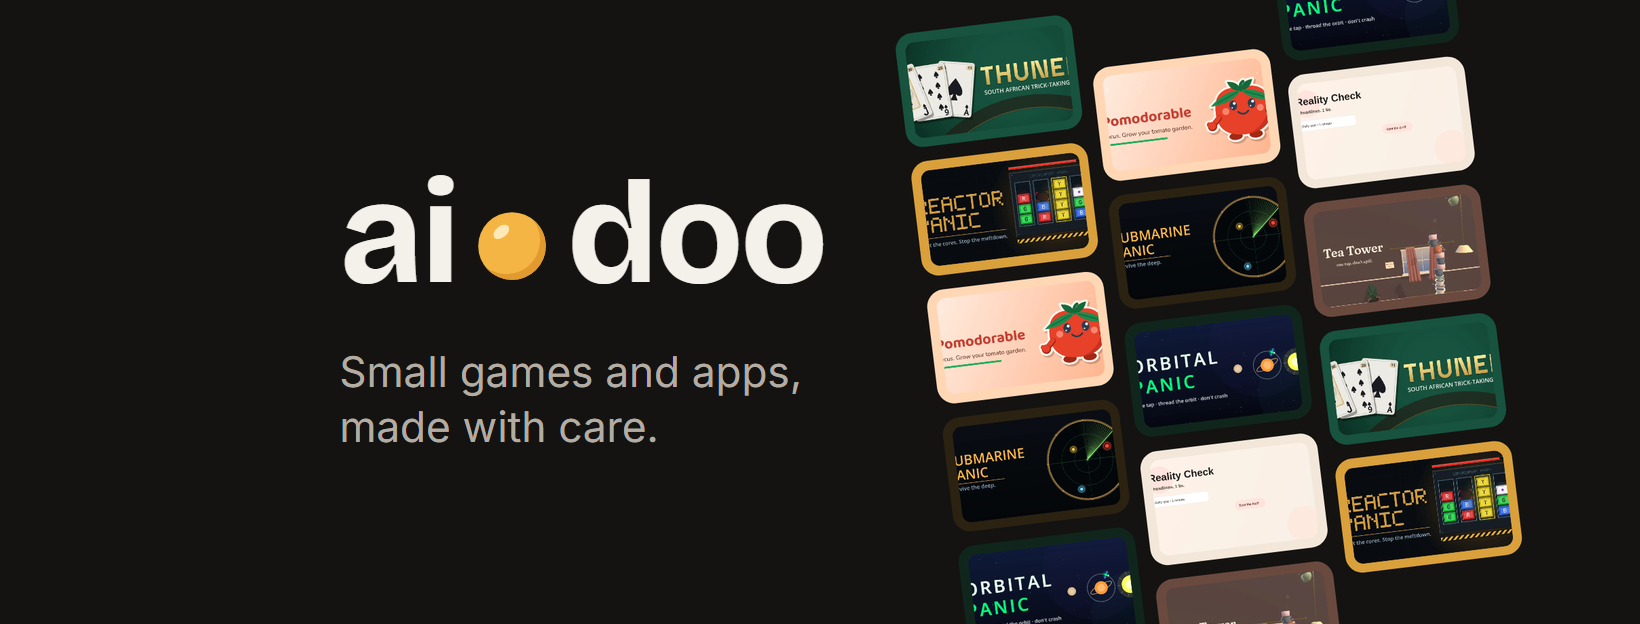
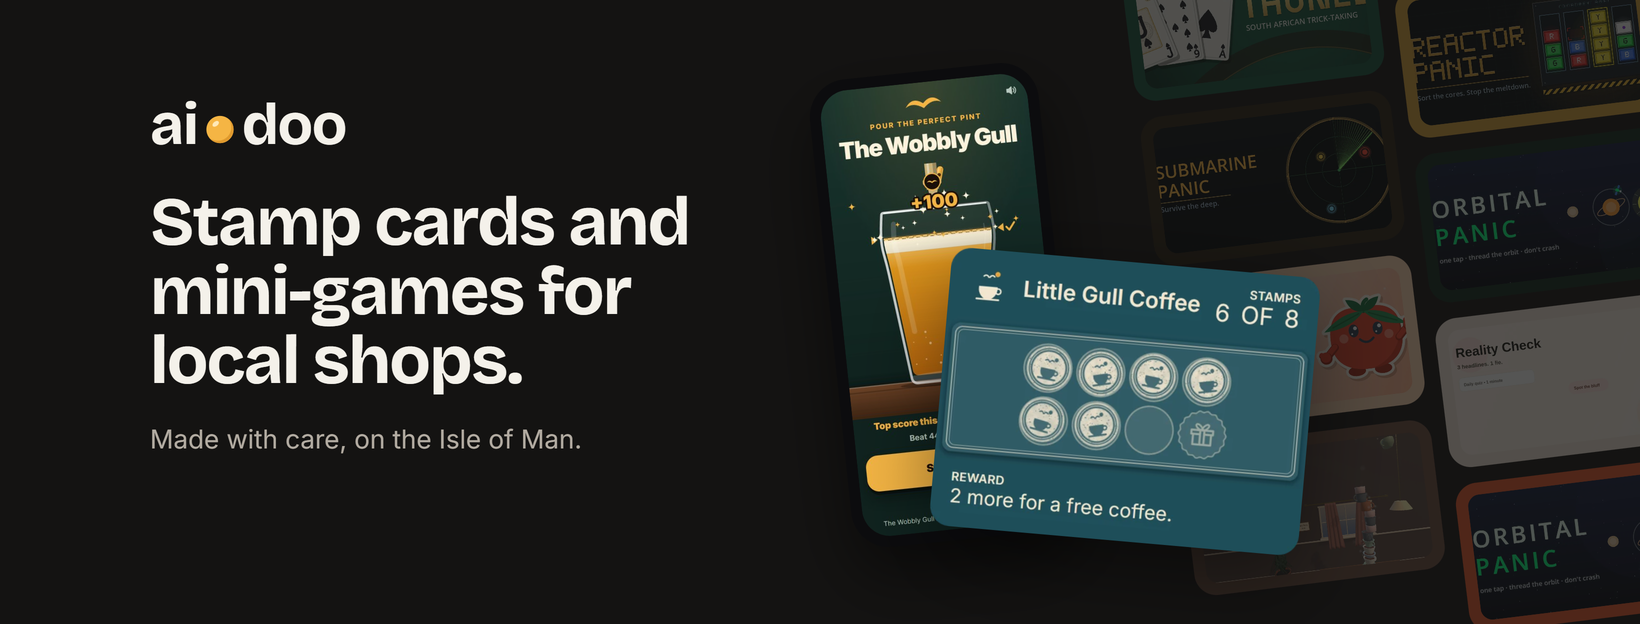
feat: share card and Facebook cover lead with the shop offers (P2.1o)
The homepage card now reads 'Stamp cards and mini-games for local shops'
beside the pour demo and the stamp pass, games faded behind (owner chose
look A). PIKA and VERA pages share a plain wordmark card, og-plain.jpg.

diff --git a/internal/og-card/index.html b/internal/og-card/index.html
@@ -1,28 +1,49 @@
 <!doctype html>
-<!-- The source of /og-image.jpg, the 1200x630 card shown when a link to the site is shared.
-     internal/ is not deployed. To redraw it: serve the repo root, then
-       msedge --headless=new --hide-scrollbars --force-device-scale-factor=2 --window-size=1200,630 \n              --screenshot=card.png http://localhost:PORT/internal/og-card/
-     and scale the 2400x1260 PNG down to a 1200x630 JPEG. Bump ?v= on every og:image so shares refetch it. --><meta charset="utf-8"><title>ai.doo share card</title>
+<!-- The source of /og-image.jpg, the 1200x630 card shown when a link to the homepage is shared, and
+     (with ?s=banner) of images/brand/ai-doo-banner-facebook.png, the 1640x624 Facebook cover (P2.1o).
+     The shop offers lead (owner chose look A, 2026-11-05): the pour demo's phone and the stamp pass,
+     with the games faded behind as the studio's proof. PIKA and VERA share plain.html instead.
+     internal/ is not deployed. To redraw: serve the repo root, then for each size
+       msedge --headless=new --hide-scrollbars --force-device-scale-factor=2 --virtual-time-budget=3000
+              --window-size=1200,630 --screenshot=card.png http://localhost:PORT/internal/og-card/
+     (1640,624 and ?s=banner for the cover), and scale the 2x PNG down to 1x: the card as a JPEG
+     (quality 88), the cover as a PNG. Bump ?v= on every og:image so shares refetch it. -->
+<meta charset="utf-8"><title>ai.doo share card</title>
 <style>
 @font-face{font-family:Bricolage;src:url(../../fonts/bricolage-grotesque-latin.woff2);font-weight:200 800}
 @font-face{font-family:Inter;src:url(../../fonts/inter-latin.woff2);font-weight:100 900}
 *{box-sizing:border-box}
-html,body{margin:0;width:1200px;height:630px;overflow:hidden;background:#141312;color:#f4f1ea;font-family:Inter,sans-serif}
-.card{position:relative;width:1200px;height:630px;padding:56px 0 0 64px}
+html,body{margin:0;overflow:hidden;background:#141312;color:#f4f1ea;font-family:Inter,sans-serif}
+body{width:1200px;height:630px}
+body.banner{width:1640px;height:624px}
+.card{position:relative;width:100%;height:100%;overflow:hidden}
 .wm{font:700 46px/1 Bricolage;letter-spacing:-.02em;display:inline-flex;align-items:baseline}
 .wm i{width:.5em;height:.5em;margin:0 .13em;background:url(../../favicon.svg) center/contain no-repeat}
-h1{margin:94px 0 0;width:560px;font:700 82px/1.0 Bricolage;letter-spacing:-.025em}
-p{margin:30px 0 0;font-size:27px;color:#b3aca2}
-.shelf{position:absolute;right:-70px;top:-40px;width:590px;display:grid;grid-template-columns:1fr 1fr;gap:18px;transform:rotate(-7deg)}
-.g{border-radius:26px;padding:14px;height:172px}
-.g img{display:block;width:100%;height:100%;object-fit:cover;border-radius:14px}
-.col{display:grid;gap:18px;align-content:start}
+.copy{position:absolute;left:64px;top:56px;width:560px}
+h1{margin:78px 0 0;font:700 68px/1.02 Bricolage;letter-spacing:-.025em}
+p{margin:26px 0 0;font-size:26px;line-height:1.35;color:#b3aca2}
+
+.shelf{position:absolute;right:-60px;top:-60px;width:560px;display:grid;grid-template-columns:1fr 1fr;gap:16px;transform:rotate(-7deg);opacity:.28}
+.col{display:grid;gap:16px;align-content:start}
 .col.b{margin-top:70px}
+.g{border-radius:22px;padding:12px;height:150px}
+.g img{display:block;width:100%;height:100%;object-fit:cover;border-radius:12px}
+
+.phone{position:absolute;left:680px;top:74px;width:230px;height:470px;padding:11px;border-radius:38px;background:#0c0c0e;box-shadow:0 30px 60px rgba(0,0,0,.45);transform:rotate(-6deg)}
+.phone div{width:208px;height:448px;border-radius:28px;overflow:hidden}
+.phone img{display:block;width:100%;height:100%;object-fit:cover;object-position:top}
+.pass{position:absolute;left:790px;top:282px;width:370px;transform:rotate(5deg);filter:drop-shadow(0 26px 40px rgba(0,0,0,.45))}
+
+/* the cover: Facebook crops its sides on phones, so the offers sit near the middle */
+.banner .copy{left:150px;top:96px;width:600px}
+.banner .wm{font-size:58px;margin-bottom:34px}
+.banner h1{margin-top:0}
+.banner .shelf{right:-40px;top:-80px;width:520px}
+.banner .phone{left:830px;top:70px}
+.banner .pass{left:940px;top:262px}
 </style>
+<body>
 <div class="card">
-  <span class="wm">ai<i></i>doo</span>
-  <h1>Small games and apps, made with care.</h1>
-  <p>A small studio on the Isle of Man.</p>
   <div class="shelf">
     <div class="col">
       <div class="g" style="background:#17533f"><img src="../../images/work/thunee.webp" alt=""></div>
@@ -34,7 +55,15 @@ p{margin:30px 0 0;font-size:27px;color:#b3aca2}
       <div class="g" style="background:#d9a03b"><img src="../../images/work/reactor-panic.webp" alt=""></div>
       <div class="g" style="background:#10261c"><img src="../../images/work/orbital-panic.webp" alt=""></div>
       <div class="g" style="background:#f3e7da"><img src="../../images/work/reality-check.webp" alt=""></div>
-      <div class="g" style="background:#e8562a"><img src="../../images/work/submarine-panic.webp" alt=""></div>
+      <div class="g" style="background:#e8562a"><img src="../../images/work/orbital-panic.webp" alt=""></div>
     </div>
   </div>
+  <div class="copy">
+    <span class="wm">ai<i></i>doo</span>
+    <h1>Stamp cards and mini-games for local shops.</h1>
+    <p>Made with care, on the Isle of Man.</p>
+  </div>
+  <div class="phone"><div><img src="pour/wobbly-gull.jpg" alt=""></div></div>
+  <img class="pass" src="../../images/stamps-pass.webp" alt="">
 </div>
+<script>if (new URLSearchParams(location.search).get('s') === 'banner') document.body.classList.add('banner');</script>

diff --git a/internal/og-card/plain.html b/internal/og-card/plain.html
@@ -1,0 +1,19 @@
+<!doctype html>
+<!-- The source of /og-plain.jpg, the 1200x630 card shown when a PIKA or VERA page is shared (P2.1o).
+     The homepage card is about shops, so the product pages take this plain one: the wordmark and
+     the studio line. Redraw it as index.html says, at 1200x630, as a JPEG (quality 88). -->
+<meta charset="utf-8"><title>ai.doo plain share card</title>
+<style>
+@font-face{font-family:Bricolage;src:url(../../fonts/bricolage-grotesque-latin.woff2);font-weight:200 800}
+@font-face{font-family:Inter;src:url(../../fonts/inter-latin.woff2);font-weight:100 900}
+*{box-sizing:border-box}
+html,body{margin:0;width:1200px;height:630px;overflow:hidden;background:#141312;color:#f4f1ea;font-family:Inter,sans-serif}
+.card{width:1200px;height:630px;display:flex;flex-direction:column;align-items:center;justify-content:center}
+.wm{font:700 150px/1 Bricolage;letter-spacing:-.02em;display:inline-flex;align-items:baseline}
+.wm i{width:.5em;height:.5em;margin:0 .13em;background:url(../../favicon.svg) center/contain no-repeat}
+p{margin:44px 0 0;font-size:30px;color:#b3aca2}
+</style>
+<div class="card">
+  <span class="wm">ai<i></i>doo</span>
+  <p>A small studio on the Isle of Man.</p>
+</div>

diff --git a/index.html b/index.html
@@ -14,13 +14,13 @@
   <meta property="og:description" content="ai.doo is a small studio on the Isle of Man. We make mobile games, useful little apps and web toys, and branded mini-games and custom apps for businesses and events.">
   <meta property="og:url" content="https://aidoo.biz/">
   <meta property="og:site_name" content="ai.doo">
-  <meta property="og:image" content="https://aidoo.biz/og-image.jpg?v=4">
+  <meta property="og:image" content="https://aidoo.biz/og-image.jpg?v=5">
 
   <!-- Twitter Card -->
   <meta name="twitter:card" content="summary_large_image">
   <meta name="twitter:title" content="ai.doo: small games and apps, made with care">
   <meta name="twitter:description" content="A small studio on the Isle of Man making games and apps.">
-  <meta name="twitter:image" content="https://aidoo.biz/og-image.jpg?v=4">
+  <meta name="twitter:image" content="https://aidoo.biz/og-image.jpg?v=5">
 
   <link rel="icon" href="favicon.svg" type="image/svg+xml" sizes="any">
   <meta name="theme-color" content="#141312">

diff --git a/vera/index.html b/vera/index.html
@@ -13,7 +13,7 @@
   <meta property="og:description" content="Self-hosted OCR validation. Upload, review, correct, and export with human-in-the-loop accuracy.">
   <meta property="og:url" content="https://aidoo.biz/vera/">
   <meta property="og:site_name" content="ai.doo">
-  <meta property="og:image" content="https://aidoo.biz/og-image.jpg?v=4">
+  <meta property="og:image" content="https://aidoo.biz/og-plain.jpg?v=1">
 
   <link rel="icon" href="../favicon.svg" type="image/svg+xml" sizes="any">
   <meta name="theme-color" content="#0b1020">

diff --git a/pika/changelog.html b/pika/changelog.html
@@ -14,7 +14,7 @@
   <meta property="og:description" content="Release notes and changelog for PIKA, the private document intelligence system.">
   <meta property="og:url" content="https://aidoo.biz/pika/changelog">
   <meta property="og:site_name" content="ai.doo">
-  <meta property="og:image" content="https://aidoo.biz/og-image.jpg?v=4">
+  <meta property="og:image" content="https://aidoo.biz/og-plain.jpg?v=1">
 
   <link rel="icon" href="../favicon.svg" type="image/svg+xml" sizes="any">
   <meta name="theme-color" content="#0b1020">

diff --git a/pika/index.html b/pika/index.html
@@ -13,7 +13,7 @@
   <meta property="og:description" content="Self-hosted document Q&A. Upload, ask, get cited answers, all on your infrastructure.">
   <meta property="og:url" content="https://aidoo.biz/pika/">
   <meta property="og:site_name" content="ai.doo">
-  <meta property="og:image" content="https://aidoo.biz/og-image.jpg?v=4">
+  <meta property="og:image" content="https://aidoo.biz/og-plain.jpg?v=1">
 
   <link rel="icon" href="../favicon.svg" type="image/svg+xml" sizes="any">
   <meta name="theme-color" content="#0b1020">

diff --git a/vera/changelog.html b/vera/changelog.html
@@ -14,7 +14,7 @@
   <meta property="og:description" content="Release notes and changelog for VERA, the OCR validation platform.">
   <meta property="og:url" content="https://aidoo.biz/vera/changelog">
   <meta property="og:site_name" content="ai.doo">
-  <meta property="og:image" content="https://aidoo.biz/og-image.jpg?v=4">
+  <meta property="og:image" content="https://aidoo.biz/og-plain.jpg?v=1">
 
   <link rel="icon" href="../favicon.svg" type="image/svg+xml" sizes="any">
   <meta name="theme-color" content="#0b1020">

diff --git a/tests/test_quiet_frame.py b/tests/test_quiet_frame.py
@@ -436,23 +436,38 @@ def _jpeg_size(rel):
 
 
 def test_the_share_card_is_the_right_size_and_every_page_asks_for_the_new_one():
-    assert _jpeg_size("og-image.jpg") == (1200, 630)
-    assert (REPO_ROOT / "og-image.jpg").stat().st_size < 300_000
-    asked = 0
+    # P2.1o: the homepage card leads with the shop offers; PIKA and VERA take the plain one
+    for card in ("og-image.jpg", "og-plain.jpg"):
+        assert _jpeg_size(card) == (1200, 630)
+        assert (REPO_ROOT / card).stat().st_size < 300_000
+    asked = {}
     for path in REPO_ROOT.rglob("*.html"):
-        if {".git", "docs", "_docs_build", "internal"} & set(
+        if {".git", ".claude", "docs", "_docs_build", "internal"} & set(
             path.relative_to(REPO_ROOT).parts
         ):
             continue
+        rel = path.relative_to(REPO_ROOT).as_posix()
         for url in re.findall(
-            r'content="(https://aidoo\.biz/og-image[^"]*)"',
+            r'content="(https://aidoo\.biz/og-(?:image|plain)[^"]*)"',
             path.read_text(encoding="utf-8"),
         ):
-            assert url == "https://aidoo.biz/og-image.jpg?v=4", path
-            asked += 1
-    assert asked == 6
-    # its source is kept, and kept off the public site
+            want = (
+                "https://aidoo.biz/og-plain.jpg?v=1"
+                if rel.startswith(("pika/", "vera/"))
+                else "https://aidoo.biz/og-image.jpg?v=5"
+            )
+            assert url == want, rel
+            asked[rel] = asked.get(rel, 0) + 1
+    assert asked == {
+        "index.html": 2,
+        "pika/index.html": 1,
+        "pika/changelog.html": 1,
+        "vera/index.html": 1,
+        "vera/changelog.html": 1,
+    }
+    # their sources are kept, and kept off the public site
     assert (REPO_ROOT / "internal" / "og-card" / "index.html").is_file()
+    assert (REPO_ROOT / "internal" / "og-card" / "plain.html").is_file()
     assert "--exclude='internal/'" in (
         REPO_ROOT / ".github" / "workflows" / "deploy.yml"
     ).read_text(encoding="utf-8")

diff --git a/docs/ROADMAP.md b/docs/ROADMAP.md
@@ -98,6 +98,7 @@ designs the rest from the result (D-008, D-010, D-011).
 | P2.1l | **A 404 that plays (owner, 2026-11-01: mock A of three).** A visitor who follows a wrong link to aidoo.biz lands on the studio frame, not a blank white page: "This page rolled away", with the wordmark's ball resting where the full stop goes. Tap it and it plays as the dot does. Four game tiles in the games' colours, a way back and an email link. noindex, out of the sitemap. | Ready For Test | owner | routine | Machine: `404.html` with absolute paths, `tests/test_not_found.py`, all gates. Owner: adds `handle_errors` to the aidoo.biz Caddy vhost (CLAUDE.md, VPS step 7), then opens aidoo.biz/nope on a phone and flicks the ball. |
 | P2.1m | **More play on the homepage (owner, 2026-11-02: D-041, an exception to the P2.1b hold).** A visitor who plays with the site finds a little more: six keep-ups end with six sparks off the paddle in the games' colours as the ball goes home (1A); the two o's of "doo" watch the ball while it's out and blink when it lands (2A, D-020's held idea); on a computer, "Play the demo" opens the pint in a sheet over the homepage, and typing "pour" opens it too (4A). The cards stay still on hover (3C). Each moves only when someone makes it move (D-019), stores nothing, and is off with reduced motion. | Complete | owner | routine | **Built 2026-11-02 on `item/P2.1m-more-play-build` (#118); played by the owner: fun, the eyes too small to read (googly eyes to be stilled before the merge).** `py -m pytest tests -q`: `424 passed`; `bash scripts/gates.sh`: `All gates passed.` (lint, format, tests, build, site, audit, docs; 2 cycles, format). Red first: 5 failed, 28 passed in `test_quiet_frame.py`. Codex round 1 (gpt-6-astra, medium): one P2, keyboard focus could leave the sheet; fixed test-first (the page behind it is `inert`). Checked in the browser pane: the sheet rises with the real game, the page stays at `/`, the game's `<base target="_top">` is in, Esc inside the game closes it, nothing left inert. Stills picked 2026-11-02 (`internal/prototypes/more-play-stills.html`); the 4A mock played by the owner on the PC ("works great"). Machine: `studio_driver.cjs` covers the sparks and the eyes; a test for the sheet (opens on the button and the word, ignores typing in the chat, closes on Esc, hides the Play button, links in the game leave the sheet); all gates. Owner: plays each on a phone and the PC. **2026-11-02, googly eyes (owner picked B):** the o fills, a dark pupil rolls 0.11em, the blink drains it; red first then `34 passed`, gates all PASS, Codex no findings. **2026-11-02, landed:** the owner played the googly eyes on a phone from the branch ("This looks amazing! Love it") and merged #118 (`1dc05b9`). |
 | P2.1n | **The footer biscuit (owner, 2026-11-04: D-043, an exception to the P2.1b hold).** A visitor to a studio page reads in the footer "No cookie banner. There are no cookies. Have a biscuit instead.", with a dotted underline and a small biscuit after it. Tap-only (owner, 2026-11-04, after playing it: nothing happens without a tap). Until the first tap only the line shows. Tap once and a mug of tea rises over the footer, moving nothing, and the biscuit goes in and starts to soak, with "Tap to pull it out." in a quiet line under it (its room is always kept, so nothing shifts). A second tap within about 2 seconds brings it out, dark at the bottom with one drip: "Perfect dunk."; with no second tap the soaked half snaps off and sinks with a ripple, the one thing that happens by itself: "Lost it. Happens to everyone." After the dunk, taps (or Enter or Space) take bites ("Go on, then."); the third leaves crumbs and "We'd remember you ate it, but that would need a cookie." No hover and no hold. Drawn as the approved stills in `internal/prototypes/biscuit-stills.html` (the ball's three flat shapes plus four docking holes; an oat-white mug). Every change animates in; nothing is stored, so a reload brings the biscuit back; reduced motion keeps the words and drops the movement. Out of scope: a cookie banner of any kind; any claim beyond "no cookies" | Complete | owner | routine | Owner plays it on a phone and approves the feel. Machine: a driver test runs the biscuit against a stand-in page (tap in and out inside two seconds, tap in and no second tap, three bites, the keyboard, a mouse hovering doing nothing, reduced motion, quick taps, nothing written to any storage); `tests/test_quiet_frame.py` checks the line is on every studio page and that no studio page sets a cookie (no `document.cookie`, no third-party embed); 375 and 1280 with no sideways scroll or console errors; `bash scripts/gates.sh` all PASS. **Evidence (2026-11-04), after the owner's second round ("things just sort of happen without real intervention") and the tap-only redesign:** red first against the hold version (11 failed, 36 passed), then `py -m pytest tests/test_quiet_frame.py -q`: 47 passed; the instruction is empty and invisible until the first tap and keeps its room; no sideways scroll at 375 or 1280 on all four studio pages, no console errors; `bash scripts/gates.sh` all PASS. Owner gate left: play it on a phone (hold, tap, three taps) and approve the feel **2026-11-04, owner played it on a phone and approved the feel ("Feels right")** after three rounds of the owner's feedback: tap-only (D-043 update); the biscuit goes into the tea past the rim, bobs and rings; tea jumps the rim; after a snap each bite eats the half that's left. Stage 5 review, 2026-11-04: Gemini (Codex at its limit until 2026-11-09), high effort, NO BLOCKERS; queued for Codex's re-check. Merged by the owner (#133) 2026-11-04 and deployed; aidoo.biz serves the line. |
+| P2.1o | **The share card and Facebook cover lead with the shop offers (owner, 2026-11-05).** A shop owner who sees aidoo.biz shared, or the studio's Facebook page, reads "Stamp cards and mini-games for local shops. Made with care, on the Isle of Man." beside the pour demo's phone (The Wobbly Gull) and the stamp pass (Little Gull Coffee), with the games faded behind as the studio's proof. The owner chose look A of three mocks (`internal/prototypes/cover-stills/`). The homepage keeps its order: its first paragraph already names promo games and stamp cards. PIKA and VERA pages share a plain wordmark card (`og-plain.jpg`) instead, since a shop card is wrong there. Sources: `internal/og-card/index.html` (`?s=banner` for the cover) and `plain.html`. Out of scope: the LinkedIn, YouTube and header banners | Built | owner | routine | Spec: `tests/test_quiet_frame.py` checks both cards are 1200x630 and under 300 KB, the homepage asks for `og-image.jpg?v=5` and the four PIKA and VERA pages for `og-plain.jpg?v=1`. Evidence (2026-11-05): red first (the pages still asked for `?v=4`), then passing; stills checked at 1x. Owner gate: approve the final stills, then upload the cover to Facebook by hand after merge |
 | P2.1k | **The stamp card's promo video, filmed on real phones, and `/stamps/` to match (agreed 2026-10-31, owner).** For Island shop owners first, and their customers who tag them. The message is ease: nothing for customers to download, nothing new to buy, nothing to set up yourself. About 22s: a wallet of half-stamped paper cards; scan the counter sign, two taps, in Apple Wallet; the shop phone stamps and the lock screen buzzes a second later; the card in a shop's own logo; the owner page setting up a made-up shop with a real timer in the corner (the video's "minutes" is whatever that timer says); end card: "We're a new studio on the Isle of Man, looking for our first few shops. Know one who'd love this? Tag them below." and aidoo.biz/stamps. No price (the offer is the free pilot). The owner films: the iPhone screen, the shop phone over the shoulder, the owner page, the printed counter sign on a counter, the paper cards; Claude cuts it and writes the captions and post copy (Facebook, Instagram, LinkedIn; not TikTok) into `scripts/promo-video/posts.md`. Before it posts: `/stamps/` drops the demo framing, its mock card matches the real one, `posts.md` no longer says the product "isn't built", and Gelatory has seen it (loyalty P0.0/P0.1). Tagged shops get a warm public reply and the rest by DM, never a pitch in the comments | Proposed | owner | routine | Owner approves the cut and the copy; the timed setup matches the video; `/stamps/` live with the new copy; `bash scripts/gates.sh` all PASS |
 | P2.0w | **The whippy's stream, out of the machine (owner, 2026-10-22: "feels slightly out of place").** The stream is still the pub tap's plain band in cream, flat beside the shaded coils. Ideas to mock: the same grooved, lit rope as the turns; it bends and sways towards where the turn is being laid; it fattens in a surge; on release it thins and snaps off at the nozzle, the last of it dropping onto the top turn as the tip begins. **Owner picked mock B (2026-10-22): the rope that swings; folded into P2.0u's PR #72** | Complete | Claude | routine | After P2.0u merges. Mock stills (mid-pour, a surge, the snap) for the owner to pick first; then tests red first, the pub, cafe and dairy traces unchanged, stills at 390 and 320, gates, Stage 5, owner plays it on a phone **Built inside P2.0u (owner picked mock B, 2026-10-22): the rope that swings.** Tests red first (4 failed), then `139 passed`; the pub, café and dairy traces unchanged; gates all PASS; Codex round 1 (medium): no findings (`c498ebf`). Merged by the owner in #72 (2026-10-23) after playing it on a phone, and live on `/play/pour/?skin=icecream`. |
 | P2.0x | **The drizzle's motion (owner, 2026-10-23: sauce 1 "feels better, but I feel like we could do a little more").** Sauce 1's look is right (D-030); its movement isn't yet. An animator/designer review first, then mocks. Claude's leads for the review: the ribbon grows evenly from the middle, where real sauce lands on one spot and runs off it; the drop arrives with no weight (a squash and splat at impact); the three drips run at one even pace (slow in, speed up, ease as the bulb fills, a small wobble, staggered); the sauce sits over the swirl, not in its grooves; the shine never moves (one slow highlight along it once settled) | Complete | Claude | routine | After P2.0u merges. The review in a fresh chat; two or three mocks as frame strips on the real tip for the owner to pick; then tests red first (the sauce test's height and width rule still holds), stills at 390 and 320, gates, Stage 5, owner plays it **Built 2026-10-23 on `item/P2.0x-drizzle` (owner picked mock C3, then asked for the landing blob to spread into the ribbon, not fade).** Review `docs/design/2026-10-23-drizzle-review.md`. Evidence: red first, `py -m pytest tests/test_promo_showcase.py -q -k "pink or tapered or pools or three_drips or glint or thread_is_the_only"` gave `5 failed, 1 passed` on sauce 1 (the sixth, the height-and-width rule, passes by design); after the port `154 passed in 30.15s`. `bash scripts/gates.sh`: lint, format, tests (278), build, site, audit, docs all PASS, `All gates passed.` The pub, café, dairy and other ice cream serves draw as before: the UI driver's output differs from main's only in `whippySauce` and the new `whippyDrizzle`. Stills at 390 and 320 from -40 to +760 ms: `.loop/drizzle-mocks/built-390.png`, `built-320.png`. Codex round 1 (gpt-6-astra, medium): no findings. `game.js?v=35`. Since then v37 (finer, round ends), v38 (the topped hold) and v39 (sprinkles A). Codex round 2 (gpt-6-astra, medium) on the whole PR at `1625ced`: no findings; gates all PASS there. **Owner gate (taste):** plays `/play/pour/?skin=icecream` on a phone Merged by the owner in #77 (2026-10-26) after playing v37 and the designer's check; v37 (finer, round ends), v38 (the topped hold) and v39 (sprinkles A) followed round 1, and Codex round 2 (gpt-6-astra, medium) on the whole PR found nothing. The Gates and Deploy runs on `main` passed, and `https://aidoo.biz/play/pour/` serves `game.js?v=39`. The designer's two small leftovers are P2.0z. |

diff --git a/docs/CURRENT_SPRINT.md b/docs/CURRENT_SPRINT.md
@@ -45,6 +45,9 @@ Held until then: new titles, the rest of the site rework (P2.1b), and suite road
 
 ## Work log
 
+### 2026-11-05
+- **P2.1o: the share card leads with the shop offers (`item/P2.1o-shop-share-card`).** The owner felt the cover art and share card were out of date; three mocks (A: the offers as the headline on the dark frame; B: the studio line kept; C: cream like the `/stamps/` card) and the owner chose A. `og-image.jpg` and the Facebook cover are redrawn from `internal/og-card/index.html`; PIKA and VERA now share a plain wordmark card, `og-plain.jpg`. The homepage order stays. After merge the owner uploads `images/brand/ai-doo-banner-facebook.png` to Facebook by hand.
+
 ### 2026-11-04
 - **Logos for the other stamp card prospects (`item/stamps-logos-batch2`; owner, in a plain chat; no roadmap row).** Searched the six unsent shops for their own websites (never Facebook or a directory; downloads OK'd by the owner): only **Madrina** (#59) has a usable mark, their site's 512px heart icon, now `?logo=madrina`, full colour and shown whole (a new `whole` flag, so the heart's lobes aren't cut by the round badge), stamped with its shine bare; its link in batch 2's S8 carries it. Not done: The Caff (#57) has only an old Weebly site, its icon Weebly's own and its mark a text banner; Woodbourne Deli (#62) a wide script wordmark over a fork and spoon (illegible at 28px; its favicon 40px); The Nutty Chef (#58), The Barking Barber (#60) and Onchan Barber Shop (#61) no website (Facebook only). Red first, gates all PASS in a clean checkout. No second-provider review (Codex limited to 2026-11-09, Gemini out of credit). **Next:** the owner checks it on the phone, merges, sends S8.
 - **Stamps batch 3: The Roundhouse and Gourmet Shakes (`item/stamps-batch3`; owner, in a plain chat; no roadmap row).** Two prospects the owner found, #63 and #64 in [the prospect list](design/2026-10-02-promo-prospects.md), with drafts S11 and S12 in [batch 3](design/2026-11-04-stamps-outreach-batch-3.md). **The Roundhouse** (Braddan Commissioners' hub, Strang): its soft play started a paper card on 28 July 2026, a stamp per paying child entry, ten for a free session (their Facebook post, read in the pane without signing in); email to info@theroundhouse.im. **Gourmet Shakes N Snacks** (2 Windsor Road, Douglas; some listings say 10 Castle Street): no website of its own, only an ordering page on ICRTouch's bytable.net; walk in or Facebook. Both have usable logos, now on `LOGOS`: `?logo=theroundhouse`, their site's 300px round badge (full colour, a circle like Little Gull's), and `?logo=gourmetshakes`, the shake cup cut from the 512px logo on their ordering page (its icon is the whole wordmark, illegible at 28px) as a one-colour `tint` mark like Davison's; both checked at 28px and nothing clipped. `card.js?v=5` (#134 takes v=4). Red first, gates all PASS in a clean worktree. Reviewed by Gemini (Codex limited to 2026-11-09): correct, no blockers; queued for Codex to re-review. Their logos are for their private samples only. The owner checked both cards on the phone over the LAN ("Both look good"). **Next:** the owner merges, then sends S11 and S12.

diff --git a/docs/design/brand.md b/docs/design/brand.md
@@ -87,4 +87,5 @@ facts kept for visitors who ask.
 - `/pika/` and `/vera/` still sell pilots; whether they keep doing so waits for
   P2.0's result (D-004, D-010).
 - ~~`og-image.png` still shows the AI positioning.~~ Redrawn 2026-10-08 in the D-012 look (studio headline, game cards); now `og-image.jpg` (a new URL, so share caches refetch; under WhatsApp's ~300 KB limit).
+- Share card redrawn again 2026-11-05 (P2.1o): the shop offers lead, the games sit behind; `?v=5`. PIKA and VERA share `og-plain.jpg`.
 - Success measures and the Umami baseline.
